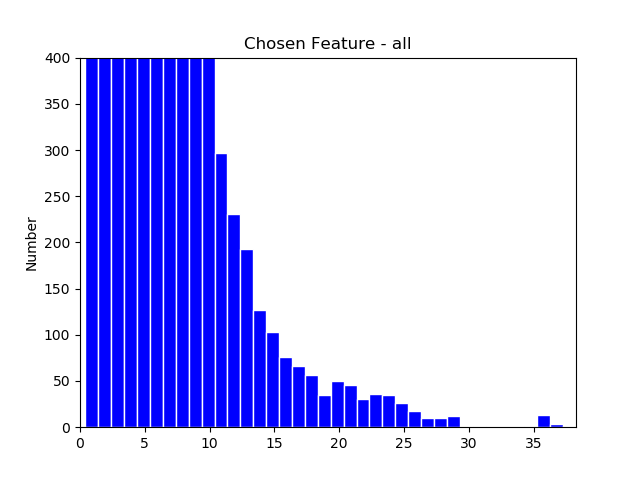
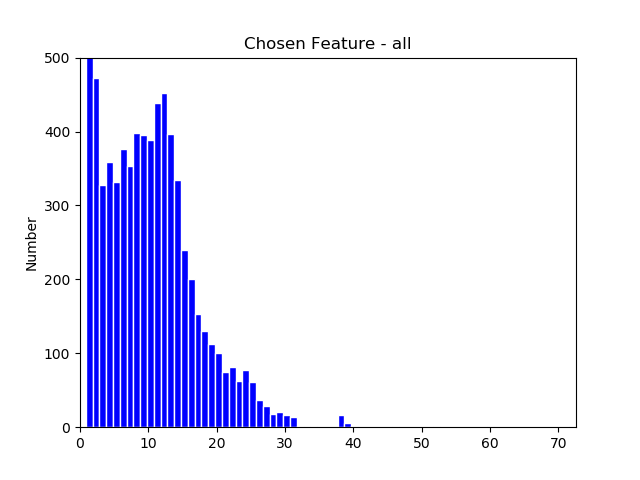
Time: 2019-09-20 15:58:54

diff --git a/3_histClustering.py b/3_histClustering.py
@@ -6,7 +6,7 @@
 @Github: https://github.com/isLouisHsu
 @E-mail: is.louishsu@foxmail.com
 @Date: 2019-09-19 21:22:25
-@LastEditTime: 2019-09-20 15:55:18
+@LastEditTime: 2019-09-20 15:57:40
 @Update: 
 '''
 import os
@@ -53,7 +53,7 @@ plt.figure()
 plt.title("Chosen Feature - all")
 plt.ylabel("Number")
 plt.xlim(0, chosenFeat.max())
-plt.ylim(0, 400)
+plt.ylim(0, 500)
 n, bins, patches = plt.hist(chosenFeat, bins=int(chosenFeat.max() - chosenFeat.min()) + 1, facecolor='blue', edgecolor='white')
 plt.savefig("images/3_feat_hist.png")
 
